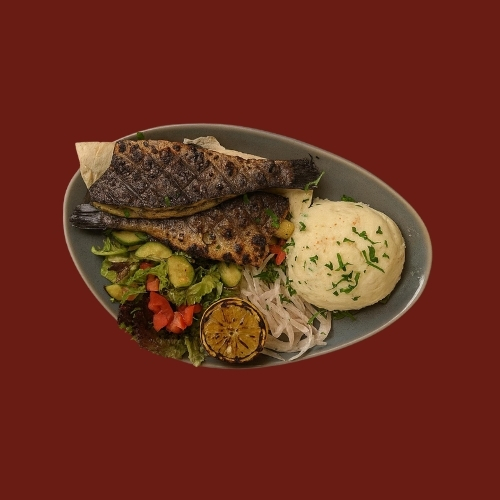
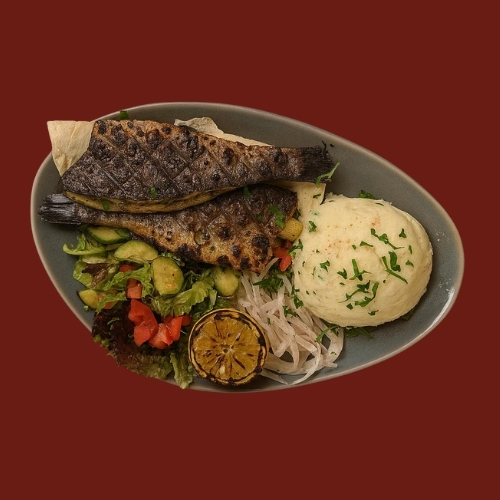
Update menu and images: Manual edits and new content
- Updated NatureVillageWebsite.js with manual edits
- Modified Grilled Branzino Platter.jpg image
- Added new Chicken Tenders.jpg image
- Sync latest changes from development

diff --git a/components/NatureVillageWebsite.js b/components/NatureVillageWebsite.js
@@ -693,7 +693,7 @@ const NatureVillageWebsite = () => {
         fr: 'Un plat irakien traditionnel fait avec du riz au safran et du jarret d\'agneau, garni de sauce tomate spéciale et décoré d\'amandes grillées et de persil frais, offre une expérience culinaire unique.',
         de: 'Ein traditionelles irakisches Gericht aus Safranreis und Lammhaxe, mit spezieller Tomatensauce überzogen und mit gerösteten Mandeln und frischer Petersilie garniert, bietet ein einzigartiges kulinarisches Erlebnis.'
       },
-      price: '$16.99',
+      price: '$26.99',
       category: 'specialty',
       popular: true,
       image: '/Quzi.jpg',
@@ -727,7 +727,7 @@ const NatureVillageWebsite = () => {
         fr: 'Filets de bar européen grillés, servis avec des oignons marinés au sumac, salade fraîche, tomate grillée, citron grillé et purée de pommes de terre crémeuse, c\'est un choix délicieux.',
         de: 'Gegrillte europäische Seebarschfilets, serviert mit Sumach-marinierten Zwiebeln, frischem Salat, gegrillten Tomaten, gegrillter Zitrone und cremigem Kartoffelpüree, ist eine köstliche Wahl.'
       },
-      price: '$23.99',
+      price: '$37.99',
       category: 'specialty',
       popular: true,
       image: '/Grilled Branzino Platter.jpg',
@@ -761,7 +761,7 @@ const NatureVillageWebsite = () => {
         fr: 'Un kebab fait avec un mélange d\'agneau et de bœuf, grillé à la perfection. Servi avec du riz au safran, salade de saison, oignons au sumac et légumes grillés.',
         de: 'Ein Kebab aus einer Mischung von Lamm und Rind, perfekt gegrillt. Serviert mit Safranreis, Salat der Saison, Sumach-Zwiebeln und gegrilltem Gemüse.'
       },
-      price: '$21.99',
+      price: '$23.99',
       category: 'grill',
       popular: true,
       image: '/Ekabab.jpg',
